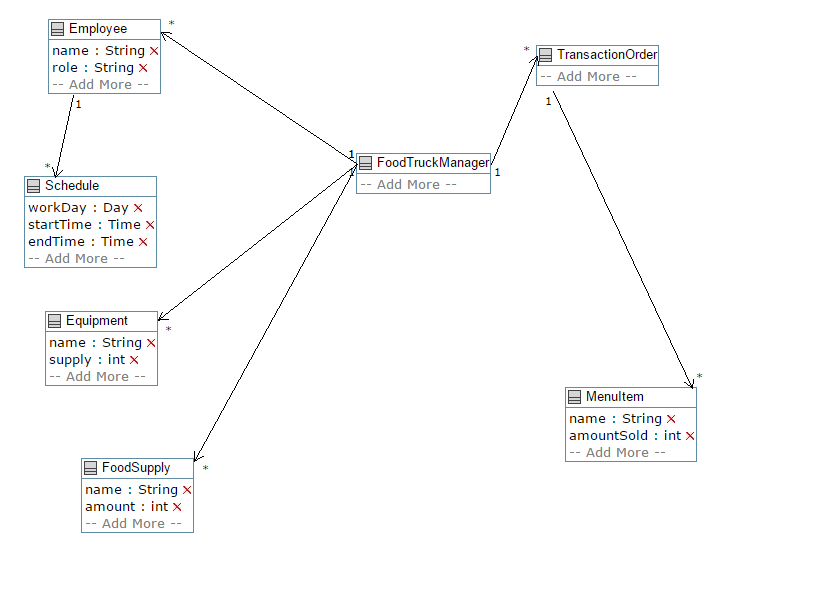
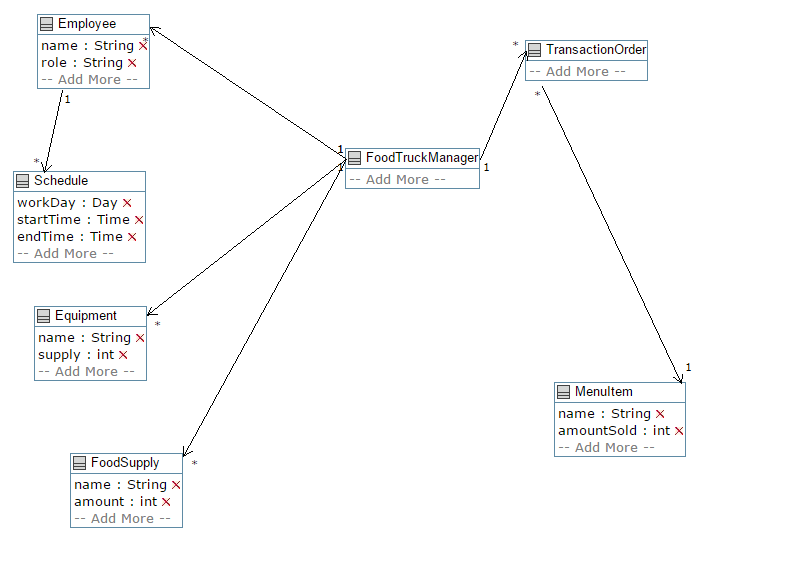
Fixed a slight problem in the ump code and the php code

diff --git a/Php/TransactionOrder.php b/Php/TransactionOrder.php
@@ -10,118 +10,38 @@ class TransactionOrder
   //------------------------
 
   //TransactionOrder Associations
-  private $menuItems;
+  private $menuItem;
 
   //------------------------
   // CONSTRUCTOR
   //------------------------
 
-  public function __construct()
+  public function __construct($aMenuItem)
   {
-    $this->menuItems = array();
+    if (!$this->setMenuItem($aMenuItem))
+    {
+      throw new Exception("Unable to create TransactionOrder due to aMenuItem");
+    }
   }
 
   //------------------------
   // INTERFACE
   //------------------------
 
-  public function getMenuItem_index($index)
+  public function getMenuItem()
   {
-    $aMenuItem = $this->menuItems[$index];
-    return $aMenuItem;
+    return $this->menuItem;
   }
 
-  public function getMenuItems()
+  public function setMenuItem($aNewMenuItem)
   {
-    $newMenuItems = $this->menuItems;
-    return $newMenuItems;
-  }
-
-  public function numberOfMenuItems()
-  {
-    $number = count($this->menuItems);
-    return $number;
-  }
-
-  public function hasMenuItems()
-  {
-    $has = $this->numberOfMenuItems() > 0;
-    return $has;
-  }
-
-  public function indexOfMenuItem($aMenuItem)
-  {
-    $wasFound = false;
-    $index = 0;
-    foreach($this->menuItems as $menuItem)
+    $wasSet = false;
+    if ($aNewMenuItem != null)
     {
-      if ($menuItem->equals($aMenuItem))
-      {
-        $wasFound = true;
-        break;
-      }
-      $index += 1;
+      $this->menuItem = $aNewMenuItem;
+      $wasSet = true;
     }
-    $index = $wasFound ? $index : -1;
-    return $index;
-  }
-
-  public static function minimumNumberOfMenuItems()
-  {
-    return 0;
-  }
-
-  public function addMenuItem($aMenuItem)
-  {
-    $wasAdded = false;
-    if ($this->indexOfMenuItem($aMenuItem) !== -1) { return false; }
-    $this->menuItems[] = $aMenuItem;
-    $wasAdded = true;
-    return $wasAdded;
-  }
-
-  public function removeMenuItem($aMenuItem)
-  {
-    $wasRemoved = false;
-    if ($this->indexOfMenuItem($aMenuItem) != -1)
-    {
-      unset($this->menuItems[$this->indexOfMenuItem($aMenuItem)]);
-      $this->menuItems = array_values($this->menuItems);
-      $wasRemoved = true;
-    }
-    return $wasRemoved;
-  }
-
-  public function addMenuItemAt($aMenuItem, $index)
-  {  
-    $wasAdded = false;
-    if($this->addMenuItem($aMenuItem))
-    {
-      if($index < 0 ) { $index = 0; }
-      if($index > $this->numberOfMenuItems()) { $index = $this->numberOfMenuItems() - 1; }
-      array_splice($this->menuItems, $this->indexOfMenuItem($aMenuItem), 1);
-      array_splice($this->menuItems, $index, 0, array($aMenuItem));
-      $wasAdded = true;
-    }
-    return $wasAdded;
-  }
-
-  public function addOrMoveMenuItemAt($aMenuItem, $index)
-  {
-    $wasAdded = false;
-    if($this->indexOfMenuItem($aMenuItem) !== -1)
-    {
-      if($index < 0 ) { $index = 0; }
-      if($index > $this->numberOfMenuItems()) { $index = $this->numberOfMenuItems() - 1; }
-      array_splice($this->menuItems, $this->indexOfMenuItem($aMenuItem), 1);
-      array_splice($this->menuItems, $index, 0, array($aMenuItem));
-      $wasAdded = true;
-    } 
-    else 
-    {
-      $wasAdded = $this->addMenuItemAt($aMenuItem, $index);
-    }
-    return $wasAdded;
+    return $wasSet;
   }
 
   public function equals($compareTo)
@@ -131,7 +51,7 @@ class TransactionOrder
 
   public function delete()
   {
-    $this->menuItems = array();
+    $this->menuItem = null;
   }
 
 }
